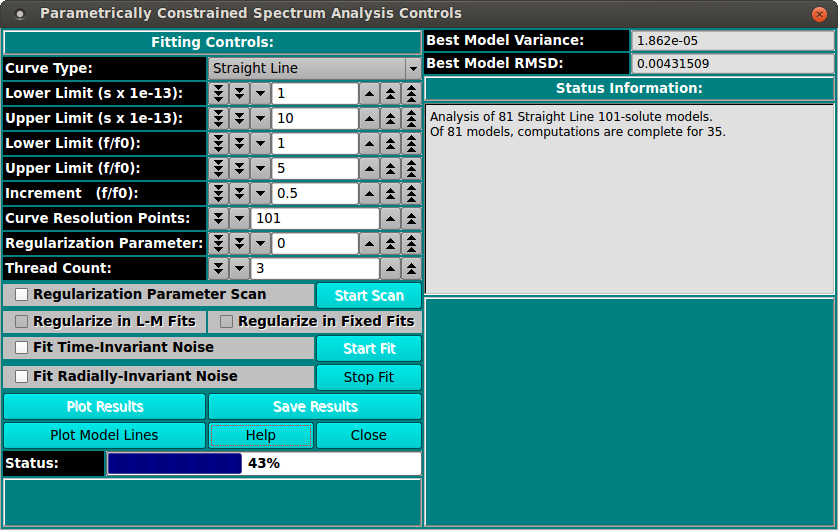
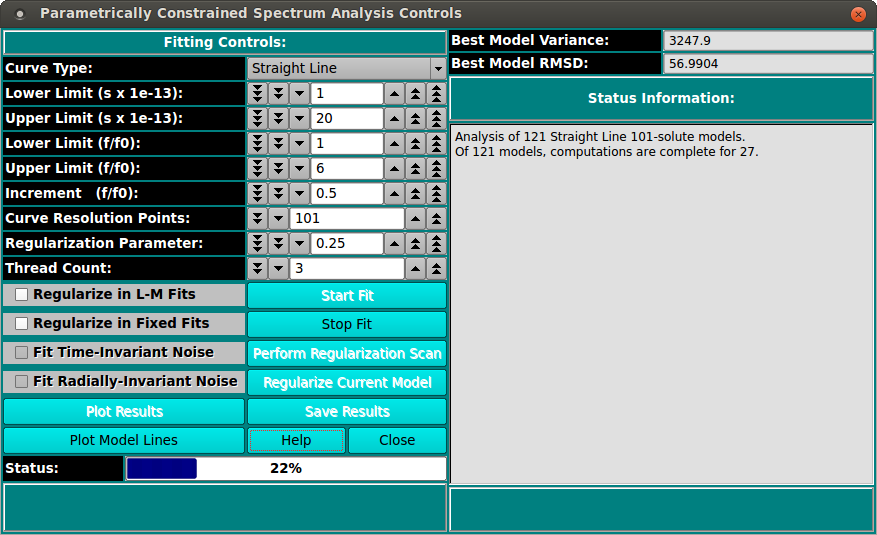
Updated PCSA help for current analysis control GUI elements
git-svn-id: svn://bcf2.uthscsa.edu/ultrascan3/trunk@1593 0b344138-67e3-44e0-be2b-e1ba3e4701c6

diff --git a/utils/us_solve_sim.cpp b/utils/us_solve_sim.cpp
@@ -163,8 +163,6 @@ DebugTime("BEG:calcres");
    int    kk     = 0;
    int    kodl   = 0;
    double s0max  = 0.0;
-//   double s0sum  = 0.0;
-//   int    s0knt  = 0;
 
    for ( int ee = offset; ee < offset + dataset_count; ee++ )
    {
@@ -190,11 +188,6 @@ DebugTime("BEG:calcres");
             {  // Find max of scan 0 values
                s0max          = qMax( s0max, evalue );
             }
-//            else if ( ss == 0  &&  evalue != 0.0 )
-//            {  // Accumulate sum and count of scan 0 non-zero values
-//               s0sum         += evalue;
-//               s0knt++;
-//            }
 
             nnls_b[ kk++ ] = evalue;
          }
@@ -203,12 +196,11 @@ DebugTime("BEG:calcres");
 DbgLv(1) << "   CR:B fill kodl" << kodl;
 
    // If needed, scale the alpha used in A-matrix appendix diagonals
-//   if ( tikreg )
-//      alphad         = sim_vals.alpha * s0max;
-//   if ( tikreg  &&  s0knt > 0 )
-//      alphad         = sim_vals.alpha * s0sum / (double)s0knt;
    if ( tikreg )
-      alphad         = sim_vals.alpha * sqrt( s0max );
+   {
+      alphad         = ( s0max == 0.0 ) ? sim_vals.alpha
+                       : ( sim_vals.alpha * sqrt( s0max ) );
+   }
 
    if ( abort ) return;
 
